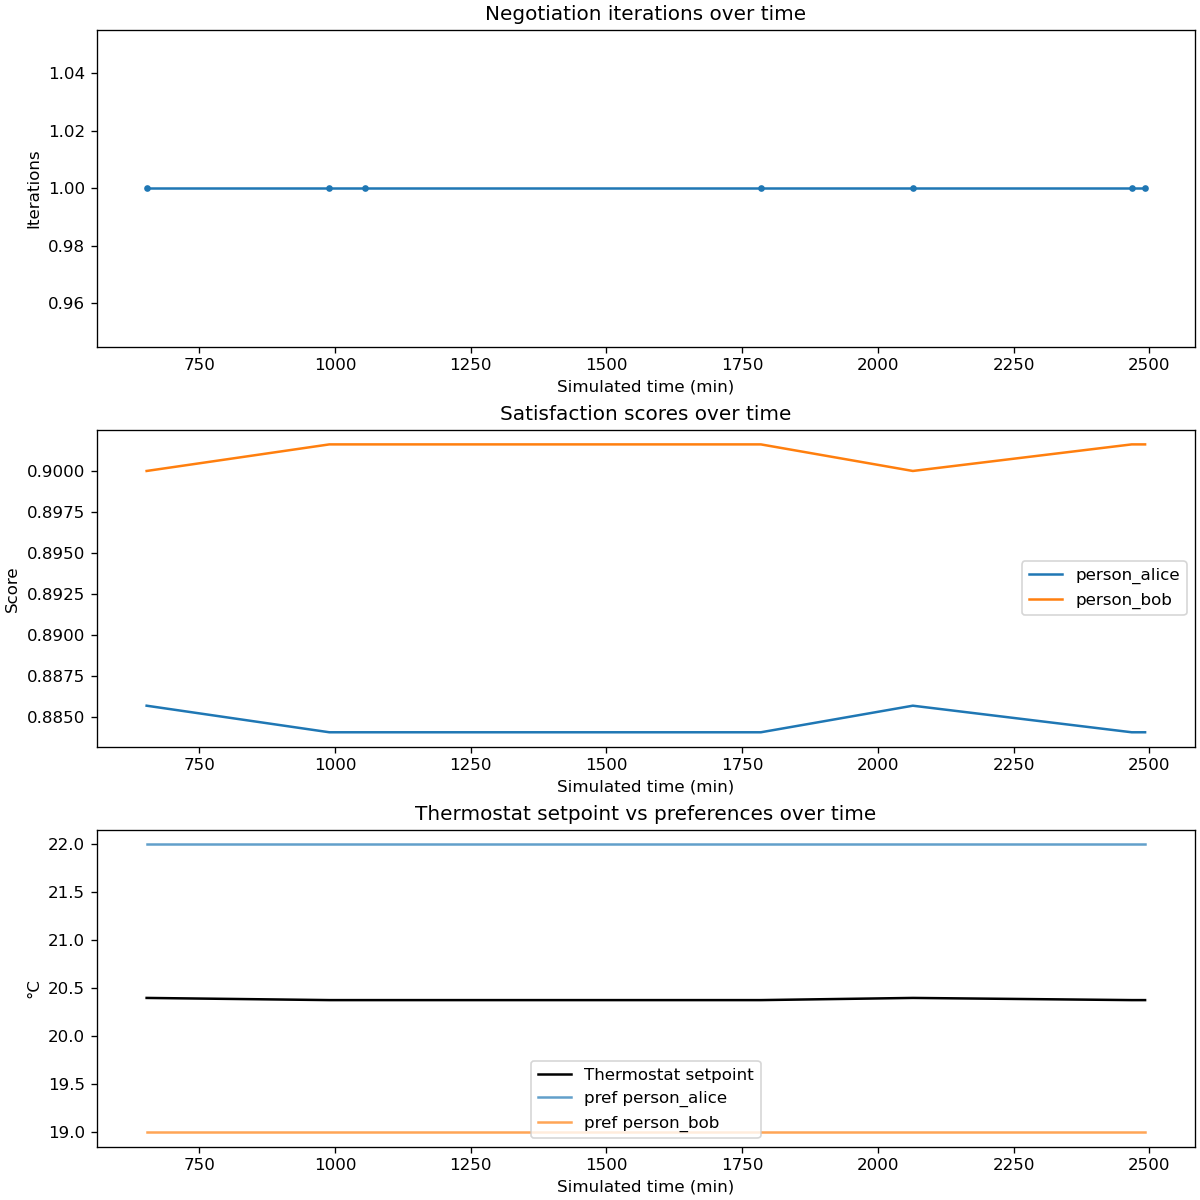
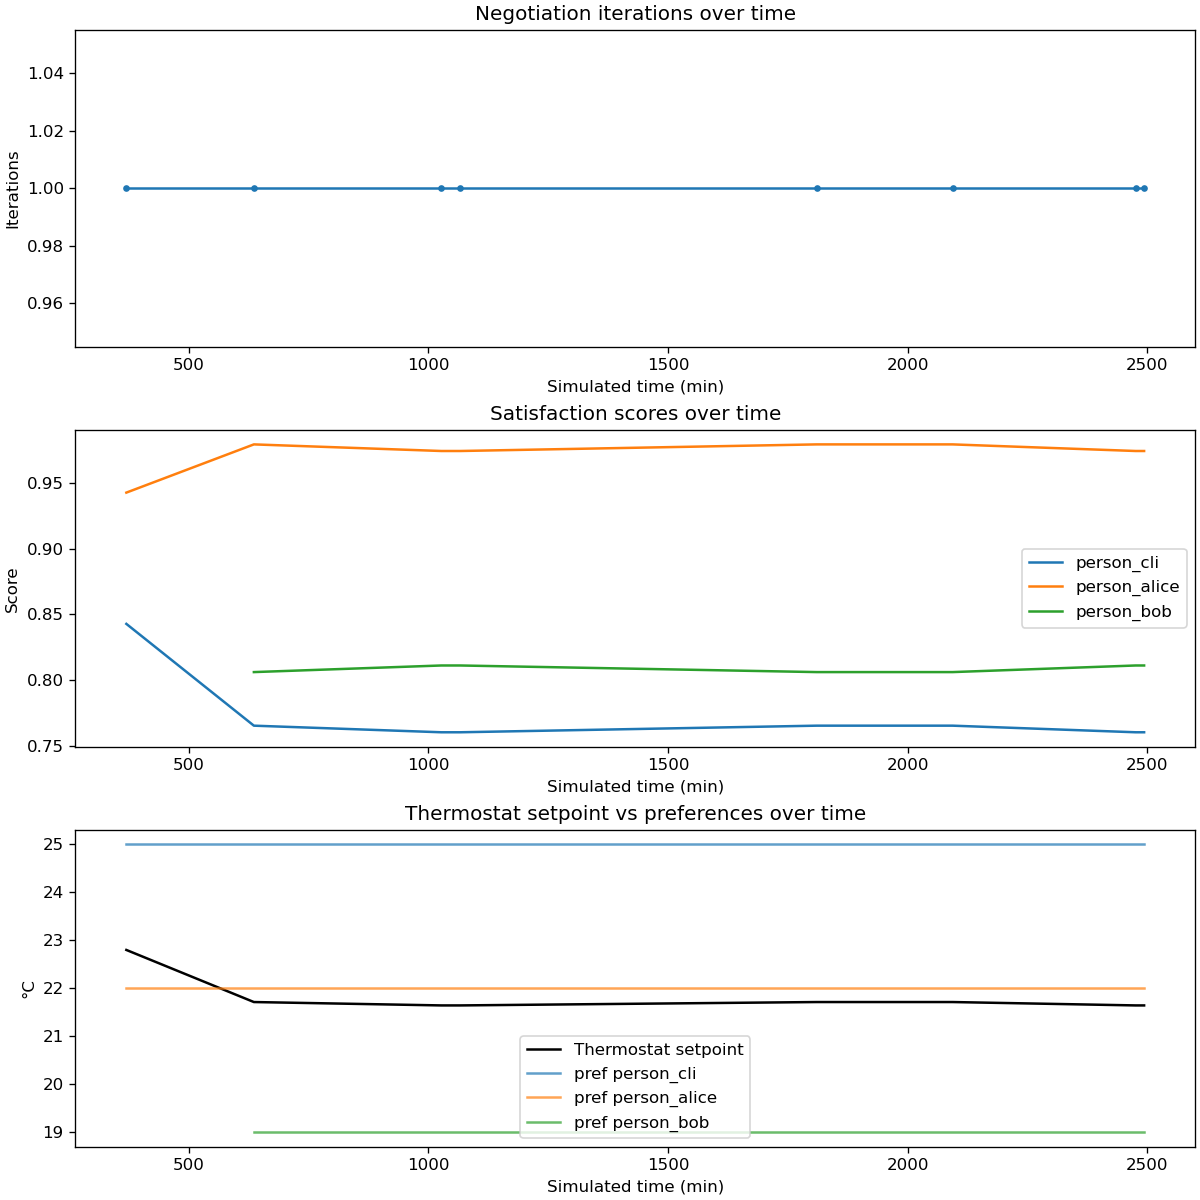
rl in ui

diff --git a/halo_simulation/ui/index.html b/halo_simulation/ui/index.html
@@ -1777,6 +1777,7 @@
         LLMObservationUpdate: '#c084fc',
         LLMApiCall: '#06b6d4',
         LLMPipelineError: '#f85149',
+        RLThermostatNudge: '#ff79c6',
         default: '#8b949e',
       };
       const c = colors[type] || colors.default;
@@ -2148,6 +2149,61 @@
         pushFeed(data, data.description, data.msg_type);
         pulseAgent(data.sender);
         if (data.recipient !== 'broadcast') pulseAgent(data.recipient);
+      }
+      if (kind === 'rl_thermostat') {
+        const ap = data.apply || {};
+        const cs = ap.comfort_setpoint;
+        if (typeof cs === 'number' && Number.isFinite(cs)) {
+          state.thermo.setpoint = cs;
+        }
+        const tRaw = _numOrNaN(data.timestamp != null ? data.timestamp : data.sim_time);
+        if (Number.isFinite(tRaw) && tRaw >= state.runSimMinuteMax) {
+          state.runSimMinuteMax = tRaw;
+          document.getElementById('simTime').textContent = 'Sim: ' + weatherSimAxisLabel(tRaw);
+          state.bob._minuteOfDay = tRaw % MIN_PER_DAY;
+        }
+        const tlab = fmtTime(data.timestamp != null ? data.timestamp : data.sim_time);
+        if (chartLine && typeof cs === 'number' && Number.isFinite(cs)) {
+          chartLine.data.labels.push(tlab);
+          chartLine.data.datasets[0].data.push(cs);
+          const dss = chartLine.data.datasets;
+          const prevLen = dss[0].data.length - 1;
+          const aliceV =
+            dss[1] && prevLen > 0 ? dss[1].data[prevLen - 1] : state.alice.pref;
+          const bobV = dss[2] && prevLen > 0 ? dss[2].data[prevLen - 1] : state.bob.pref;
+          const cliV = dss[3] && prevLen > 0 ? dss[3].data[prevLen - 1] : state.cli.pref;
+          if (dss[1]) dss[1].data.push(aliceV);
+          if (dss[2]) dss[2].data.push(bobV);
+          if (dss[3]) dss[3].data.push(cliV);
+          chartLine.update('none');
+          syncThermostatChartEmptyState();
+          requestAnimationFrame(() => {
+            syncThermostatOverlaySize();
+          });
+        }
+        const dStr =
+          typeof data.delta_c === 'number' && Number.isFinite(data.delta_c)
+            ? (data.delta_c >= 0 ? '+' : '') + data.delta_c.toFixed(1) + '°C'
+            : '—';
+        const csStr =
+          typeof cs === 'number' && Number.isFinite(cs) ? cs.toFixed(1) + '°C comfort' : 'comfort —';
+        const appliedStr = ap.applied === false ? ` (not applied: ${ap.reason || 'unknown'})` : '';
+        pushFeed(
+          {
+            timestamp: data.timestamp != null ? data.timestamp : data.sim_time,
+            sender: 'RL policy',
+            recipient: 'device_thermostat',
+            negotiation_id: null,
+          },
+          `${dStr} → ${csStr}${appliedStr}`,
+          'RLThermostatNudge',
+        );
+        setAgentCard(
+          'device_thermostat',
+          ap.applied === false ? 'st-idle' : 'st-resolved',
+          ap.applied === false ? 'idle' : 'RL nudge',
+          thermostatDetailLine(),
+        );
       }
       if (kind === 'negotiation') {
         state.metrics.neg++;
@@ -2536,6 +2592,10 @@
       evtSource.addEventListener('negotiation', e => {
         if (e.target !== evtSource) return;
         enqueue('negotiation', JSON.parse(e.data));
+      });
+      evtSource.addEventListener('rl_thermostat', e => {
+        if (e.target !== evtSource) return;
+        enqueue('rl_thermostat', JSON.parse(e.data));
       });
       evtSource.addEventListener('failure', e => {
         if (e.target !== evtSource) return;

diff --git a/halo_simulation/rl/live_inference.py b/halo_simulation/rl/live_inference.py
@@ -1,0 +1,96 @@
+"""Load a trained PPO policy and nudge the thermostat on the SimPy clock (live stream)."""
+
+from __future__ import annotations
+
+import logging
+import os
+from pathlib import Path
+from typing import Any, Callable
+
+from halo_simulation import config
+from halo_simulation.rl.driver import ACTION_DELTAS
+from halo_simulation.rl.observation import build_temperature_rl_observation
+
+logger = logging.getLogger(__name__)
+
+
+def _sb3_load_path(model_path: str) -> str:
+    p = Path(model_path).expanduser()
+    if p.suffix.lower() == ".zip":
+        return str(p.with_suffix(""))
+    return str(p)
+
+
+def attach_rl_thermostat_sidecar(
+    scenario: Any,
+    emit: Callable[[str, dict[str, Any]], None],
+    model_path: str,
+    step_minutes: float | None = None,
+) -> None:
+    """Schedule a SimPy process: every *step_minutes*, obs → PPO.predict → ``apply_rl_comfort_delta``."""
+    step = float(
+        step_minutes
+        if step_minutes is not None
+        else os.getenv("HALO_RL_THERMOSTAT_STEP_MIN", "15").strip() or "15"
+    )
+    horizon = float(config.MINUTES_PER_DAY * scenario.days)
+    load_path = _sb3_load_path(model_path)
+
+    try:
+        from stable_baselines3 import PPO
+    except ImportError as e:  # pragma: no cover
+        raise RuntimeError("Install stable-baselines3 for RL live inference (pip install -r halo_simulation/rl/requirements-rl.txt)") from e
+
+    model = PPO.load(load_path)
+    logger.info("RL thermostat sidecar: loaded PPO from %s", load_path)
+
+    def _find_thermostat() -> Any:
+        for a in scenario.agents:
+            if getattr(a, "agent_id", None) == "device_thermostat":
+                return a
+        return None
+
+    def sidecar():
+        env = scenario.env
+        while env.now < horizon - 1e-9:
+            thermo = _find_thermostat()
+            if thermo is None:
+                logger.warning("RL sidecar: no thermostat; stopping sidecar")
+                return
+            try:
+                obs = build_temperature_rl_observation(scenario)
+            except Exception:
+                logger.exception("RL sidecar: observation build failed")
+                rem = min(step, max(0.0, horizon - env.now))
+                if rem <= 1e-9:
+                    return
+                yield env.timeout(rem)
+                continue
+
+            action, _states = model.predict(obs, deterministic=True)
+            ai = int(action)
+            ai = max(0, min(ai, len(ACTION_DELTAS) - 1))
+            delta = ACTION_DELTAS[ai]
+            info = thermo.apply_rl_comfort_delta(delta)
+            emit(
+                "rl_thermostat",
+                {
+                    "timestamp": float(env.now),
+                    "sim_time": float(env.now),
+                    "action_index": ai,
+                    "delta_c": float(delta),
+                    "apply": info,
+                },
+            )
+
+            rem = min(step, max(0.0, horizon - env.now))
+            if rem <= 1e-9:
+                return
+            yield env.timeout(rem)
+
+    scenario.env.process(sidecar())
+    logger.info(
+        "RL thermostat sidecar: scheduled every %.1f sim minutes until t=%.0f",
+        step,
+        horizon,
+    )

diff --git a/halo_simulation/rl/observation.py b/halo_simulation/rl/observation.py
@@ -1,0 +1,63 @@
+"""Shared 9-dim observation for thermostat RL — training and live inference must match."""
+
+from __future__ import annotations
+
+import math
+from typing import Any
+
+import numpy as np
+
+from halo_simulation import config
+
+
+def build_temperature_rl_observation(scenario: Any) -> np.ndarray:
+    """Same vector as :meth:`TemperatureRlDriver.observe` (keep in sync)."""
+    thermo = None
+    for agent in scenario.agents:
+        if getattr(agent, "agent_id", None) == "device_thermostat":
+            thermo = agent
+            break
+    if thermo is None:
+        raise RuntimeError("build_temperature_rl_observation: no device_thermostat in scenario")
+
+    s = float(scenario.env.now)
+    mod = s % float(config.MINUTES_PER_DAY)
+    ang = 2.0 * math.pi * mod / float(config.MINUTES_PER_DAY)
+    tsin, tcos = math.sin(ang), math.cos(ang)
+    cur = float(thermo._state.get("current_temp", 18.0))
+    tgt = float(thermo._state.get("target_temp", 20.0))
+    if thermo._last_outdoor is not None:
+        out = float(thermo._last_outdoor)
+    else:
+        out = float(config.WEATHER_BASELINE_TEMP + config.WEATHER_WINTER_OFFSET)
+    carb = float(thermo._last_carbon)
+    neg = 1.0 if thermo._negotiation_in_progress else 0.0
+
+    lo = float(config.THERMOSTAT_MIN)
+    hi = float(config.THERMOSTAT_MAX)
+
+    def norm_temp(t: float) -> float:
+        return float(np.clip((t - lo) / (hi - lo) * 2.0 - 1.0, -1.0, 1.0))
+
+    alice_h, bob_h = 0.0, 0.0
+    for agent in scenario.agents:
+        aid = getattr(agent, "agent_id", "")
+        if aid == "person_alice":
+            alice_h = 1.0 if getattr(agent, "is_home", True) else -1.0
+        elif aid == "person_bob":
+            bob_h = 1.0 if getattr(agent, "is_home", True) else -1.0
+
+    return np.array(
+        [
+            float(tsin),
+            float(tcos),
+            float(norm_temp(cur)),
+            float(norm_temp(tgt)),
+            float(norm_temp(out)),
+            float(np.clip(carb / 400.0, 0.0, 1.0) * 2.0 - 1.0),
+            float(neg * 2.0 - 1.0),
+            float(alice_h),
+            float(bob_h),
+        ],
+        dtype=np.float32,
+    )

diff --git a/halo_simulation/rl/driver.py b/halo_simulation/rl/driver.py
@@ -2,13 +2,13 @@
 
 from __future__ import annotations
 
-import math
 from typing import Any
 
 import numpy as np
 
 from halo_simulation import config
 from halo_simulation.agents.device_agent import ThermostatDeviceAgent
+from halo_simulation.rl.observation import build_temperature_rl_observation
 from halo_simulation.scenarios.temperature_conflict import TemperatureConflictScenario
 
 # Discrete RL actions: nudge comfort setpoint (°C) before next SimPy slice.
@@ -40,49 +40,8 @@ class TemperatureRlDriver:
         return self.observe()
 
     def observe(self) -> np.ndarray:
-        th = self._thermostat()
-        s = float(self.scenario.env.now)
-        mod = s % float(config.MINUTES_PER_DAY)
-        ang = 2.0 * math.pi * mod / float(config.MINUTES_PER_DAY)
-        tsin, tcos = math.sin(ang), math.cos(ang)
-        cur = float(th._state.get("current_temp", 18.0))
-        tgt = float(th._state.get("target_temp", 20.0))
-        if th._last_outdoor is not None:
-            out = float(th._last_outdoor)
-        else:
-            out = float(config.WEATHER_BASELINE_TEMP + config.WEATHER_WINTER_OFFSET)
-        carb = float(th._last_carbon)
-        neg = 1.0 if th._negotiation_in_progress else 0.0
-
-        lo = float(config.THERMOSTAT_MIN)
-        hi = float(config.THERMOSTAT_MAX)
-
-        def norm_temp(t: float) -> float:
-            return float(np.clip((t - lo) / (hi - lo) * 2.0 - 1.0, -1.0, 1.0))
-
-        alice_h, bob_h = 0.0, 0.0
-        for agent in self.scenario.agents:
-            aid = getattr(agent, "agent_id", "")
-            if aid == "person_alice":
-                alice_h = 1.0 if getattr(agent, "is_home", True) else -1.0
-            elif aid == "person_bob":
-                bob_h = 1.0 if getattr(agent, "is_home", True) else -1.0
-
-        obs = np.array(
-            [
-                float(tsin),
-                float(tcos),
-                float(norm_temp(cur)),
-                float(norm_temp(tgt)),
-                float(norm_temp(out)),
-                float(np.clip(carb / 400.0, 0.0, 1.0) * 2.0 - 1.0),
-                float(neg * 2.0 - 1.0),
-                float(alice_h),
-                float(bob_h),
-            ],
-            dtype=np.float32,
-        )
-        return obs
+        assert self.scenario is not None
+        return build_temperature_rl_observation(self.scenario)
 
     def _reward(self, th: ThermostatDeviceAgent) -> float:
         cur = float(th._state.get("current_temp", 18.0))

diff --git a/halo_simulation/server.py b/halo_simulation/server.py
@@ -822,6 +822,17 @@ def run_simulation_thread(
 
             sc.register_all()
             sc.start_processes()
+            rl_model = os.environ.get("HALO_RL_THERMOSTAT_MODEL", "").strip()
+            if rl_model:
+                try:
+                    from halo_simulation.rl.live_inference import attach_rl_thermostat_sidecar
+
+                    attach_rl_thermostat_sidecar(sc, emit, rl_model)
+                except Exception:
+                    logger.exception(
+                        "HALO_RL_THERMOSTAT_MODEL is set (%r) but RL thermostat sidecar failed to start",
+                        rl_model,
+                    )
             until = float(config.MINUTES_PER_DAY * days)
             chunk = float(config.STREAM_STOP_CHECK_CHUNK_MINUTES)
             stopped_early = False

diff --git a/halo_simulation/tests/test_rl_temperature_driver.py b/halo_simulation/tests/test_rl_temperature_driver.py
@@ -5,6 +5,7 @@ from __future__ import annotations
 import numpy as np
 
 from halo_simulation.rl.driver import ACTION_DELTAS, TemperatureRlDriver
+from halo_simulation.rl.observation import build_temperature_rl_observation
 
 
 def test_driver_reset_returns_obs_vector():
@@ -33,3 +34,12 @@ def test_driver_step_advances_time_and_terminates_one_day():
 
 def test_action_deltas_length_matches_discrete_three():
     assert len(ACTION_DELTAS) == 3
+
+
+def test_observe_matches_build_temperature_rl_observation():
+    d = TemperatureRlDriver(step_minutes=60.0)
+    d.reset(seed=11)
+    assert d.scenario is not None
+    o1 = d.observe()
+    o2 = build_temperature_rl_observation(d.scenario)
+    np.testing.assert_array_almost_equal(o1, o2, decimal=6)

diff --git a/halo_simulation/rl/README.md b/halo_simulation/rl/README.md
@@ -48,3 +48,21 @@ This uses **`HaloTemperatureRlEnv`** (3 thermostat nudges, 9-dim observation). I
 **Alternative:** in **`RL/PPO.py`**, change **`make_env()`** to return **`HaloTemperatureRlEnv()`** instead of **`SmartHomeEnv(profile_path)`**, then run `python RL/PPO.py train ...` as before.
 
 The legacy **`RL/environment.py`** profile MDP remains available for comparison.
+
+## 6. Live simulation stream (UI + SimPy sidecar)
+
+If **`HALO_RL_THERMOSTAT_MODEL`** is set when you start the FastAPI server, each streamed run attaches a SimPy sidecar that loads a **Stable-Baselines3 PPO** checkpoint and periodically nudges **`device_thermostat`** (same 9-float observation and **`ACTION_DELTAS`** as training). The UI receives SSE events **`rl_thermostat`** and updates the thermostat chart and feed.
+
+- **`HALO_RL_THERMOSTAT_MODEL`** — path to the saved model. If the file ends in **`.zip`**, pass that path; loading uses the path **without** the `.zip` suffix (SB3 convention).
+- **`HALO_RL_THERMOSTAT_STEP_MIN`** — optional; default **`15`** (sim minutes between sidecar steps).
+
+Example:
+
+```bash
+export PYTHONPATH=.
+export HALO_RL_THERMOSTAT_MODEL=./my_halo_ppo.zip
+# optional: export HALO_RL_THERMOSTAT_STEP_MIN=15
+uvicorn halo_simulation.server:app --host 127.0.0.1 --port 8000
+```
+
+Then open the UI, pick a scenario that includes **`device_thermostat`**, and click **Run**. The policy was trained on **`TemperatureConflictScenario`** (`HaloTemperatureRlEnv`); other scenarios still run, but observation statistics may differ from training.